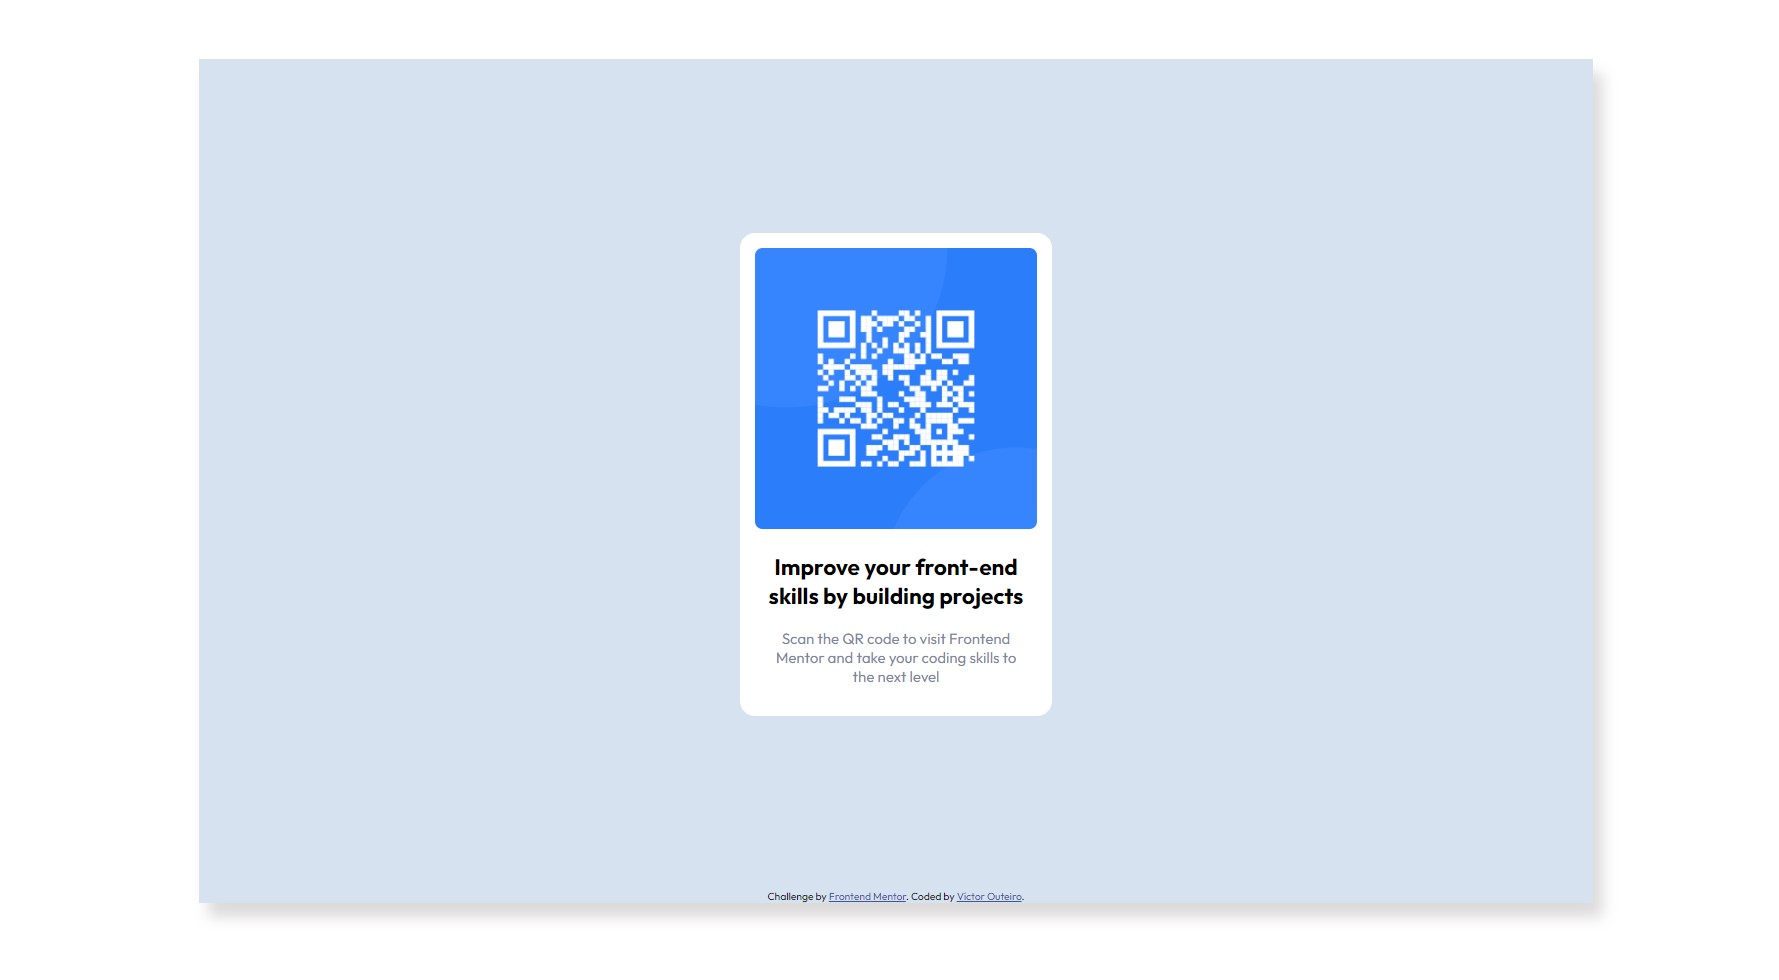
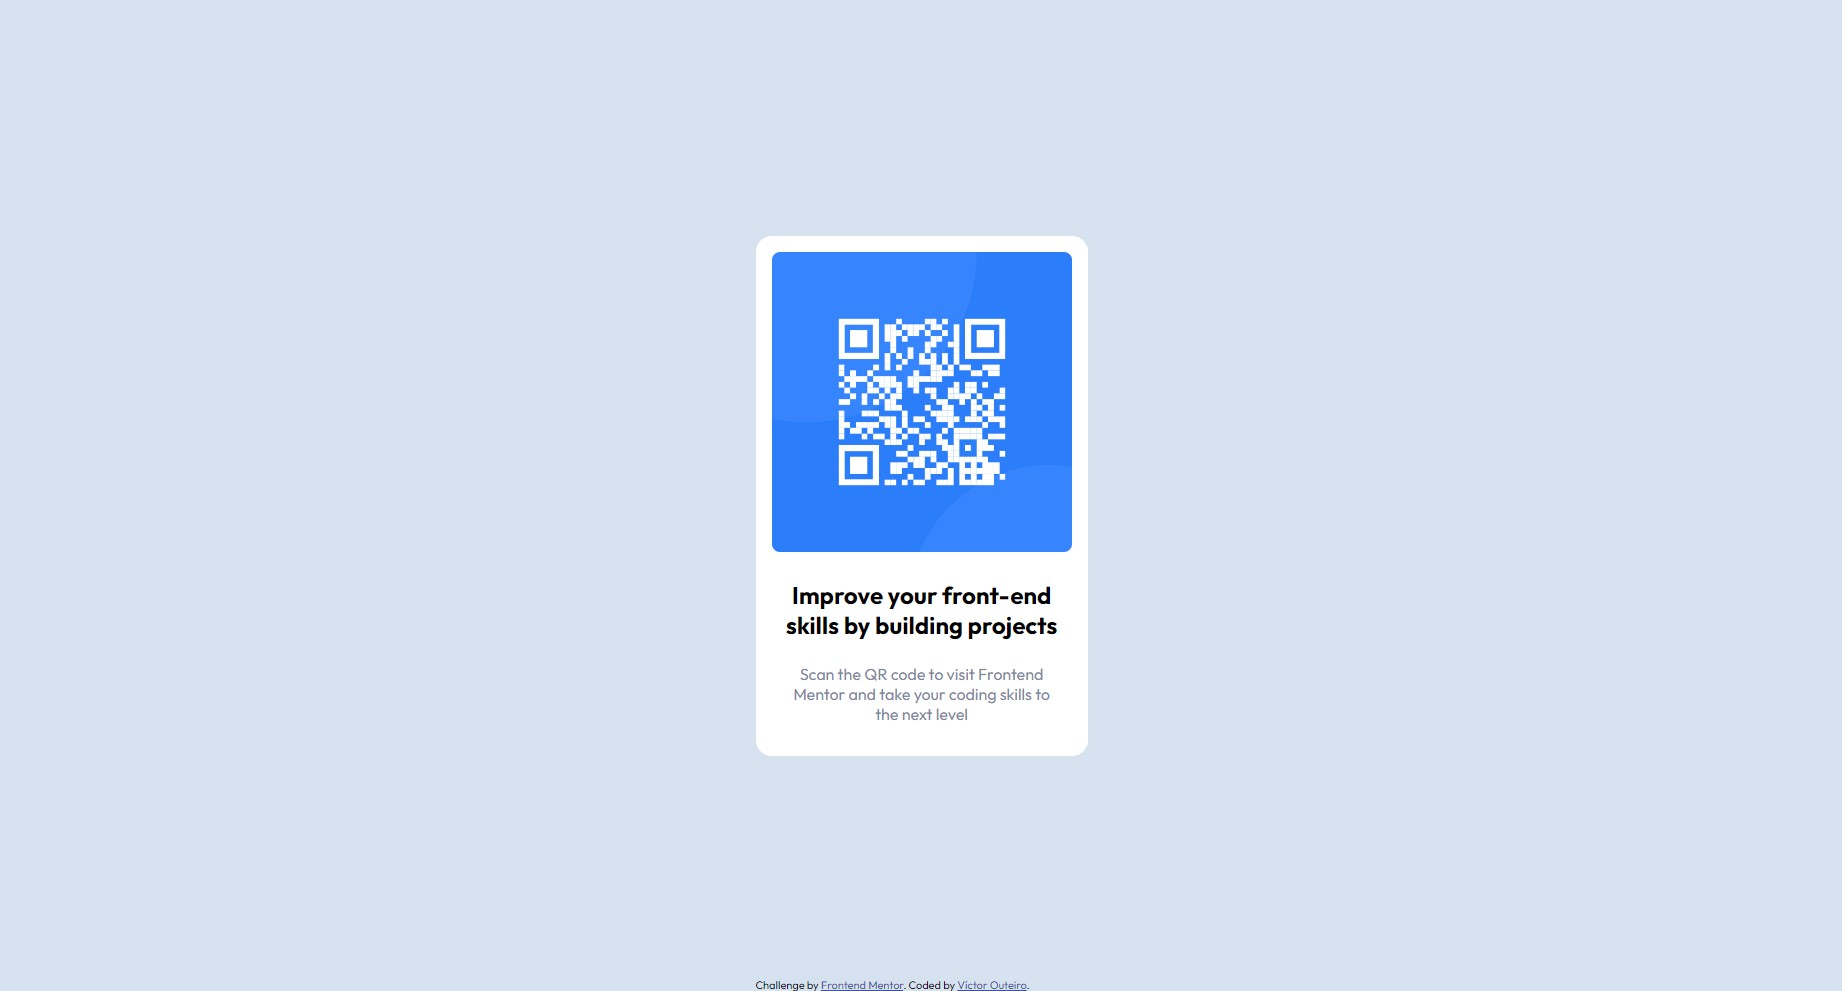
Followed advices

diff --git a/style.css b/style.css
@@ -4,46 +4,33 @@ body {
     margin: 0;
     padding: 0;
     font-family: Outfit;
-}
-main {
+    min-height: 100vh;
     display: flex;
-    flex-direction: column;
-}
-section {
+    align-items: center;
+    justify-content: center;
     background-color: hsl(212, 45%, 89%);
-    /*height = screen height*/
-    height: 100vh;
-    display: flex;
-    flex-direction: column;
 }
 article {
     background-color: hsl(0, 0%, 100%);    
     padding: 1em;
     border-radius: 1em;
-    width: 300px;
+    max-width: 300px;
     margin: auto;
 }
 .qr-img {
     width: 100%;
     border-radius: 0.5em;
 }
-h2 {
+h1 {
     text-align: center;
+    font-size: 1.5em;
 }
 p {
     text-align: center;
     padding: 0 1em;
     color: hsl(220, 15%, 55%);
 }
-
-@media (min-width: 600px) {
-    main {
-        padding: 5%;
-    }
-    section {
-        height: 900px;
-        width: 85%;
-        margin: auto;
-        box-shadow: 10px 15px 15px rgb(219, 218, 218);
-    }
+.attribution {
+    position: absolute;
+    bottom: 0;
 }

diff --git a/index.html b/index.html
@@ -19,17 +19,14 @@
     <section>
       <article>
         <img class="qr-img" src="images/image-qr-code.png" alt="">
-        <h2>Improve your front-end skills by building projects</h2>
+        <h1>Improve your front-end skills by building projects</h1>
         <p>Scan the QR code to visit Frontend Mentor and take your coding skills to the next level</p>
       </article>
-      <div class="attribution">
-        Challenge by <a href="https://www.frontendmentor.io?ref=challenge" target="_blank">Frontend Mentor</a>. 
-        Coded by <a href="#">Víctor Outeiro</a>.
-      </div>
     </section>
-    
+    <div class="attribution">
+      Challenge by <a href="https://www.frontendmentor.io?ref=challenge" target="_blank">Frontend Mentor</a>. 
+      Coded by <a href="#">Víctor Outeiro</a>.
+    </div>
   </main>
-  
-
 </body>
 </html>

diff --git a/README-template.md b/README-template.md
@@ -9,13 +9,6 @@ This is a solution to the [QR code component challenge on Frontend Mentor](https
   - [Links](#links)
 - [My process](#my-process)
   - [Built with](#built-with)
-  - [What I learned](#what-i-learned)
-  - [Continued development](#continued-development)
-  - [Useful resources](#useful-resources)
-- [Author](#author)
-- [Acknowledgments](#acknowledgments)
-
-**Note: Delete this note and update the table of contents based on what sections you keep.**
 
 ## Overview
 
